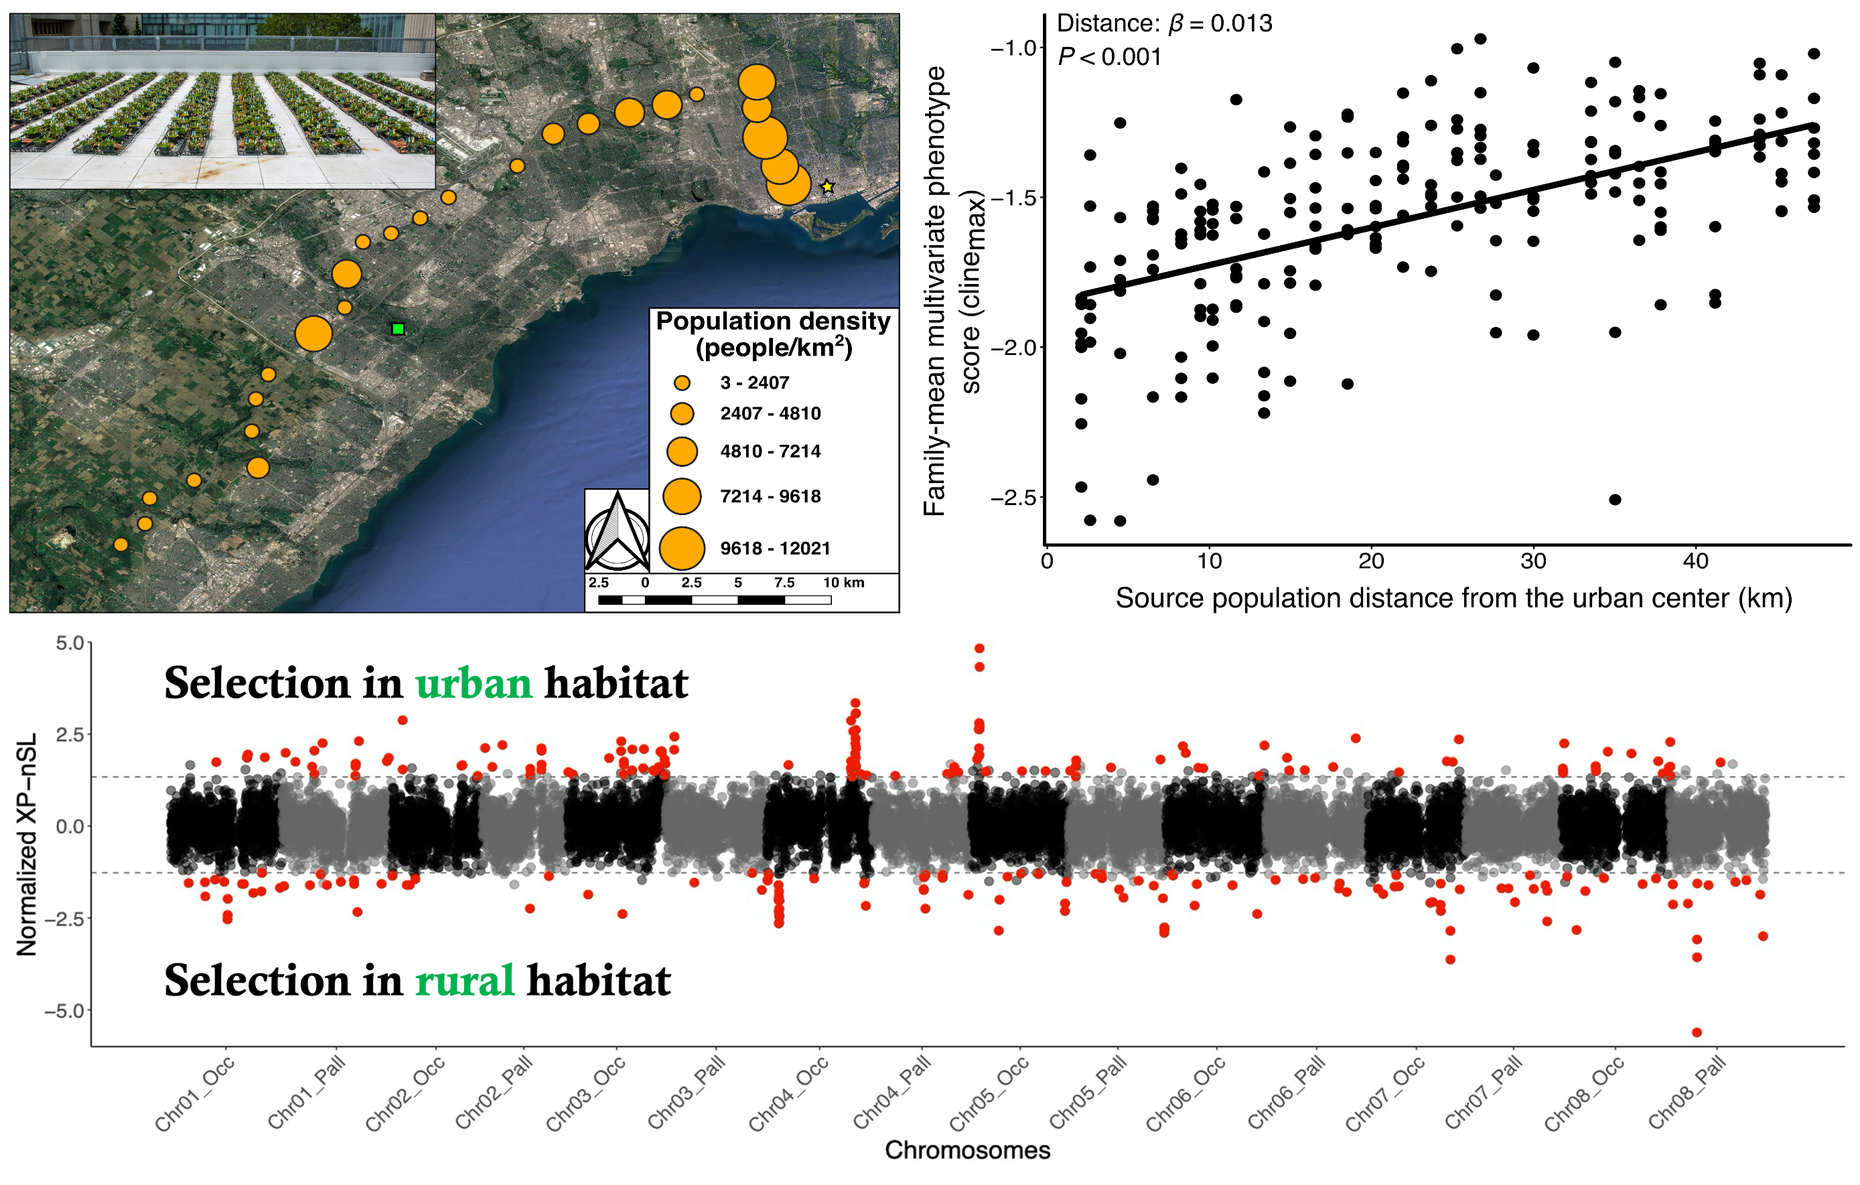
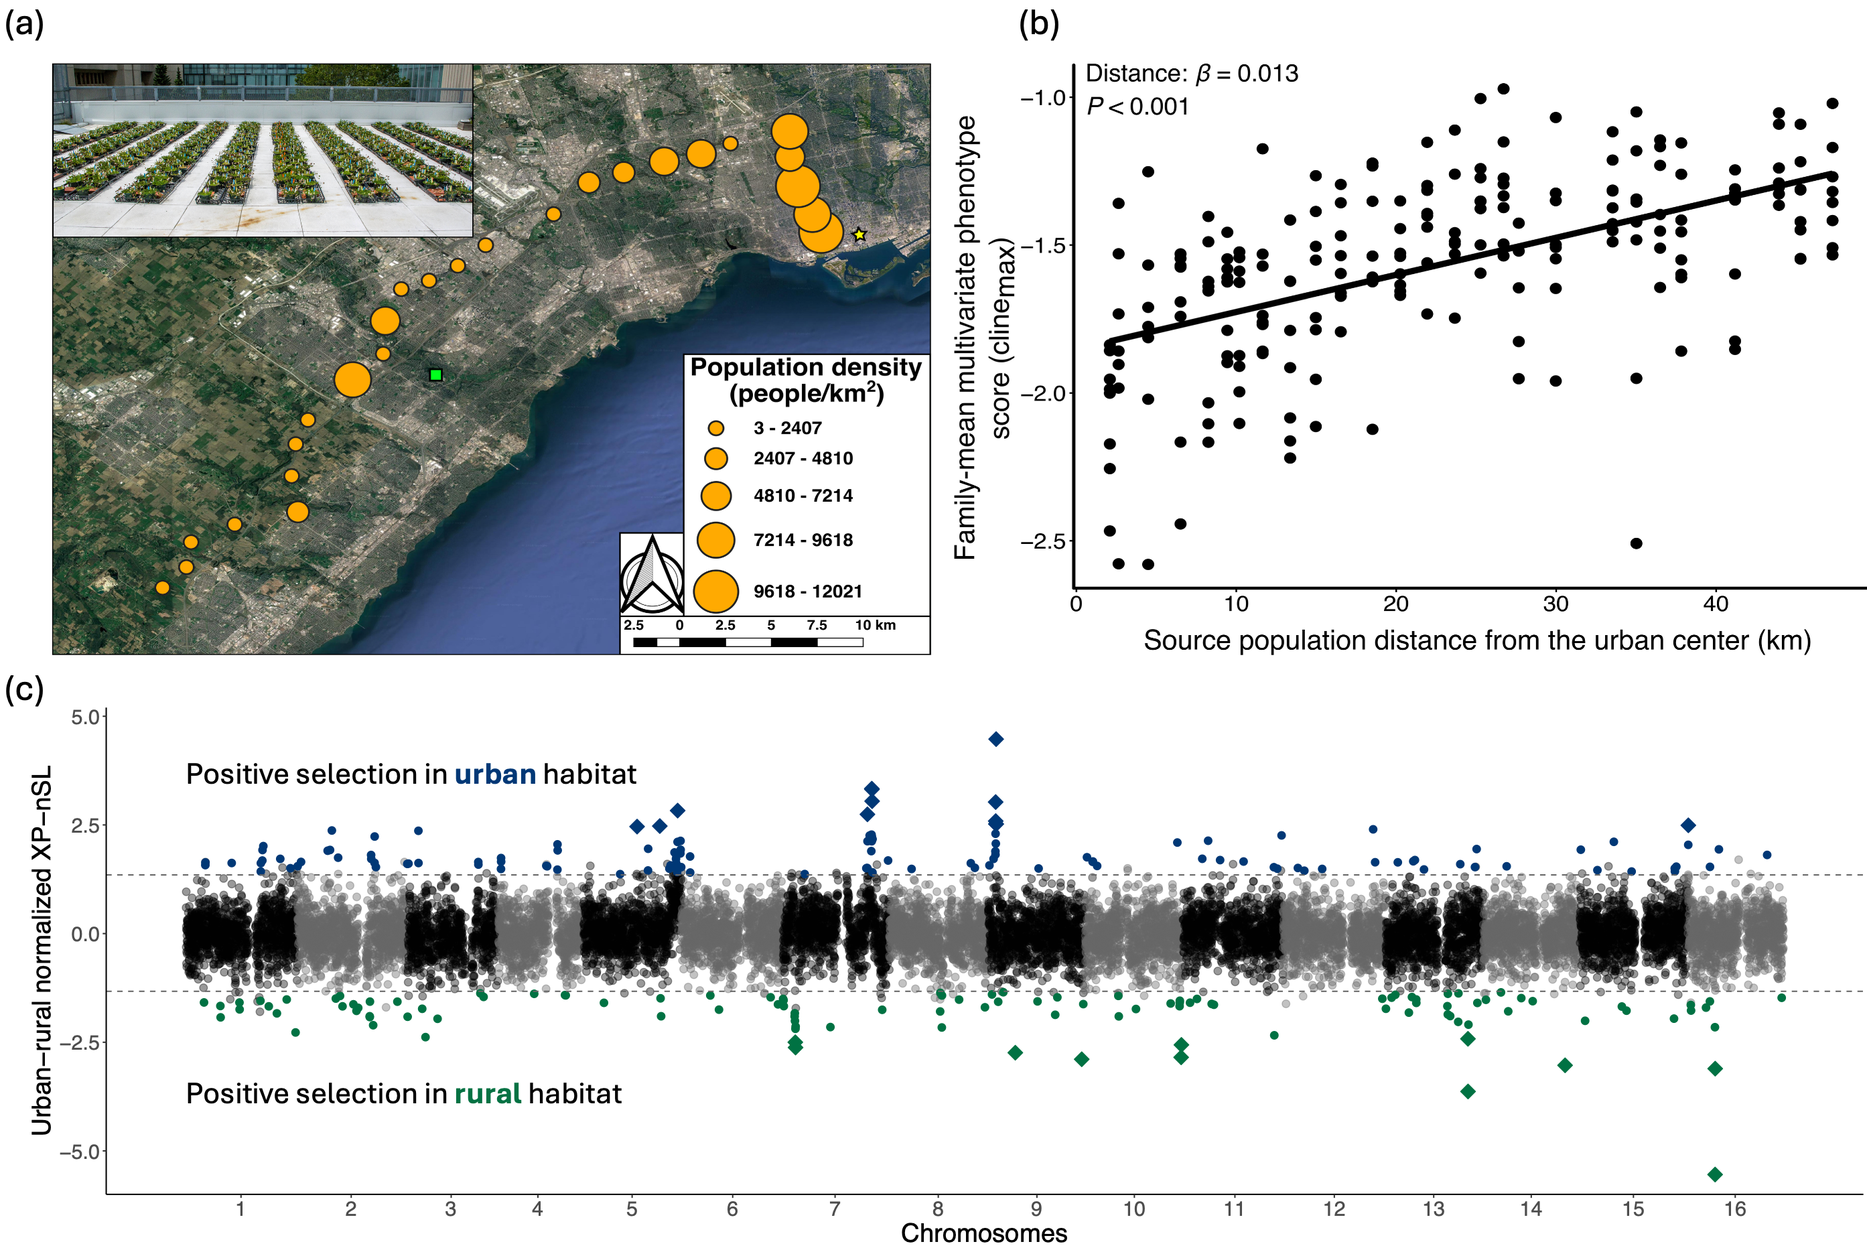
Initial updates to research page

diff --git a/_pages/research.md b/_pages/research.md
@@ -6,48 +6,157 @@ classes: wide
 toc: true
 ---
 
-## Evolution in urban environments
+# Theme 1: The genetic architecture of adaptation to contemporary environments 
 
-### Urban-rural cyanogenesis (HCN) clines
+## Urban-rural cyanogenesis (HCN) clines
 
 ![](../assets/images/glue_map.png)
 *Figure 1: Map of cities samples as part of the Global Urban Evolution Project. Cities with positive clines (HCN<sub>Urban</sub> < HCN<sub>Rural</sub>) are colored blue while cities with negative clines(HCN<sub>Urban</sub> < HCN<sub>Rural</sub>)*
 
-Approximately 55% of the world’s human population currently lives in urban environments, and this number continues to grow annually. Because cities are constructed to suit the needs of humans, urban environments around the world are predicted to be more like one another than to their own surrounding non-urban habitat, which [may drive parallel evolutionary responses to urbanization](https://www.dropbox.com/scl/fi/jixm0yrdlf57rkaosme6k/Santangelo-et-al.-2020-Urban-environments-as-a-framework-to-study-parallel-evolution.pdf?rlkey=0bwo5erp9bu1mjm5yd3f60nll&dl=0). In my PhD, I tested these predictions and leveraged large-scale, replicated urban environments to examine the extent of parallel evolution in the production of hydrogen cyanide (HCN)—an ecologically important antiherbivore defense that also affects tolerance to abiotic stressors (e.g., drought, frost)—in natural populations of white clover (_Trifolium repens_). I showed that urbanization drives repeated spatial clines in the frequency of HCN across urban-rural transects in [16 eastern North American cities](https://www.dropbox.com/scl/fi/v80cefwfhlc9ibv5e9xmh/Santangelo-et-al.-2020-Predicting-the-strength-of-urban-rural-clines-in-a-Mendelian-polymorphism-along-a-latitudinal-gradient.pdf?rlkey=6suh8rtbcm3f47c9d0e0398kx&dl=0). I later helped launch and lead the [GLobal Urban Evolution Project (GLUE)](https://www.globalurbanevolution.com/), a collaborative effort among 287 scientists from 160 countries around the world with the common goal of understanding the mechanisms underlying urban evolutionary change. [Our analyses showed](https://www.dropbox.com/scl/fi/jhoatblsbr16r6eh34u4t/Santangelo-et-al.-2022-Global-urban-environmental-change-drives-adaptation-in-white-clover.pdf?rlkey=gb6dgskpvc1sueoc3wmf50qtg&dl=0) that urban habitats around the world have converged to similar environmental features: cities are warmer, less vegetated, and contain more impervious surfaces than surrounding non- urban habitats. These convergent urban environments have driven urban-rural HCN clines in 47% of the 160 cities sampled (see Figure 1 above), and whole genome sequencing of 2,074 plants from 26 cities has confirmed that clines are adaptive. Indeed, variation in the strength of clines could be predicted by urban-rural changes in the strength of drought and herbivory, factors also known to influence HCN frequencies at continental scales.
+Humans are having a decisive impact on natural environments around the world,
+forcing species to move, adapt, or go extinct. One such form of environmental
+change is urbanization and approximately 55% of the world’s human population
+currently lives in cities, a figure that continues to grow annually. Because
+cities are constructed to suit the needs of humans, urban environments around
+the world are predicted to be more like one another than to their own
+surrounding non-urban habitat, which [may drive parallel evolutionary responses
+to
+urbanization](https://www.dropbox.com/scl/fi/jixm0yrdlf57rkaosme6k/Santangelo-et-al.-2020-Urban-environments-as-a-framework-to-study-parallel-evolution.pdf?rlkey=0bwo5erp9bu1mjm5yd3f60nll&dl=0).
+We have tested this prediction by leveraging large-scale, replicated urban
+environments to examine the extent of parallel evolution in the production of
+hydrogen cyanide (HCN)—an ecologically important antiherbivore defense that
+also affects tolerance to abiotic stressors (e.g., drought, frost)—in natural
+populations of white clover (_Trifolium repens_). We helped launch the [GLobal
+Urban Evolution Project (GLUE)](https://www.globalurbanevolution.com/), a
+collaborative effort among 287 scientists from 160 countries around the world
+with the common goal of understanding the mechanisms underlying urban
+evolutionary change. [Our analyses
+showed](https://www.dropbox.com/scl/fi/jhoatblsbr16r6eh34u4t/Santangelo-et-al.-2022-Global-urban-environmental-change-drives-adaptation-in-white-clover.pdf?rlkey=gb6dgskpvc1sueoc3wmf50qtg&dl=0)
+that urban habitats around the world have converged to similar environmental
+features: cities are warmer, less vegetated, and contain more impervious
+surfaces than surrounding non- urban habitats. These convergent urban
+environments have driven urban-rural HCN clines in 47% of the 160 cities
+sampled (see Figure 1 above), and whole genome sequencing of 2,074 plants from
+26 cities has confirmed that clines are adaptive. Indeed, variation in the
+strength of clines could be predicted by urban-rural changes in the strength of
+drought and herbivory, factors also known to influence HCN frequencies at
+continental scales.
 
+We generated a lot of data as part of this project, which numerous projects
+have leverage. For example, [Aude
+Caizergues](https://audecaizergues.github.io/) used the genomic data genomic
+data to explore the [demographic consequences of
+urbanization](https://onlinelibrary.wiley.com/doi/10.1111/mec.17311).
+Similarly, [Nic Kooyers](https://www.plantadaptation.com/), [Brandon
+Henrickson](https://louisiana.edu/directory/people/brandon-hendrickson), [Kay
+Hodgins](http://hodginslab.com/), and [Paul
+Battlay](https://scholar.google.com/citations?hl=en&user=QaufYW4AAAAJ) lead
+efforts to examine the consequences of white clover's invasion out of the
+Mediterranean to all inhabited continents, and some of the [loci underlying
+adaptation in its native and introduced
+ranges](https://www.nature.com/articles/s41559-025-02751-2).
 
-We generated a lot of data as part of this project, and numerous ongoing projects are leveraging this. For example, [Aude Caizergues](https://audecaizergues.github.io/) is leading a project using the genomic data to explore the [demographic consequences of urbanization](https://www.biorxiv.org/content/10.1101/2023.08.14.552623v1.abstract). Similarly, [Nic Kooyers](https://www.plantadaptation.com/), [Jonas Mendez-Reneau](https://scholar.google.com/citations?hl=en&user=eXl1yk0AAAAJ), [Kay Hodgins](http://hodginslab.com/), and [Paul Battlay](https://scholar.google.com/citations?hl=en&user=QaufYW4AAAAJ) are leading efforts to examine the demographic consequences of white clover's expansion out of the Mediterranean to all inhabited continents, and some of the loci underlying adaptation in its native and introduced ranges.
-
-### Quantitative trait evolution and genome-wide selection 
+## Quantitative trait evolution and genome-wide selection 
 
 ![](../assets/images/multi_cline_xpnsl.png)
 *Figure 2: Top left: Populations sampled and common garden experiment used for detected quantitative trait differentiation of white clover populations across an urban-rural transect in Toronto, Canada. Top right: Multivariate phenotypic cline among Toronto white clover population. Each point represents a plant's multivariate cline score, which combines standardized measurements of 14 phenotypic traits and their genetic correlations. Bottom: Cross-Population Number of Segregating Sites by Length (XP-nSL) scores for urban and rural plants in Toronto. This statistic identifies candidates of positive selection using genome-wide haplotype data.*
 
-Given the multifarious environmental changes associated with the development of cities, urbanization is likely to drive differentiation in many phenotypic traits. During my PhD, I collaborated with [Ruth Rivkin](https://ruthrivkin.github.io/) and [Ken Thompson](https://www.hybrid-ecology.com/) to perform a common-garden experiment that identified a multivariate phenotypic cline across the city of Toronto: [urban and rural populations were differentiated in numerous quantitative traits involved in plant growth and reproduction](https://www.dropbox.com/scl/fi/h63l5tsb2ca5rho8q4eni/Santangelo-et-al.-2020-Multivariate-phenotypic-divergence-along-an-urbanization-gradient.pdf?rlkey=kgb2ov6v6ohff3wgc4rdj9vfu&dl=0) (see Figure 2 above, top), which observational data suggested might be driven by variation in the underlying pollinator environment. Patterns of phenotypic differentiation appear mirrored across the genome, as ongoing work using 120 plants from Toronto sequenced to 13X coverage has identified signatures of selection in genes underlying growth, reproduction, and abiotic stress tolerance using plants from these same common-garden populations (see Figure 2 above, bottom). To examine whether these signatures of selection are shared across other cities, I am leveraging the genomic data collected as part of GLUE to identify parallel signatures of selective sweeps associated with urbanization.
+Given the multifarious environmental changes associated with the development of
+cities, urbanization is likely to drive differentiation in many phenotypic
+traits. In line with this prediction, a common-garden experiment identified a
+multivariate phenotypic cline across the city of Toronto: [urban and rural
+populations were differentiated in numerous quantitative traits involved in
+plant growth and
+reproduction](https://www.dropbox.com/scl/fi/h63l5tsb2ca5rho8q4eni/Santangelo-et-al.-2020-Multivariate-phenotypic-divergence-along-an-urbanization-gradient.pdf?rlkey=kgb2ov6v6ohff3wgc4rdj9vfu&dl=0)
+(see Figure 2 above, top), which observational data suggested might be driven
+by variation in the underlying pollinator environment. Patterns of phenotypic
+differentiation appear mirrored across the genome, as recent work using 120
+plants from these same populations has [identified signatures of selection in
+genes underlying growth, reproduction, and abiotic stress tolerance] (see
+Figure 2 above, bottom). 
 
-## Other topics
+## Ongoing projects and questions
 
-### Genome assembly and annotation
+We have many ongoing projects leveraging diverse techniques to better understand the traits and genes
+facilitating plant adaptation to rapidly changing environments. While existing work has largely been
+focused on cities, we are expanding our focus to other heavily human-modified landscapes, and to a 
+broader suite of traits. Here are some sample questions we're interested in tackling:
 
-![](../assets/images/circos.png){: .align-left width="50%"}
+1. What is the genetic architecture of resistance to biotic (e.g., herbivory)
+   and abiotic (e.g., drought, frost) stressors? Does resistance to one
+   stressor trade-off with resistance to others, or is there pleiotropy among
+   underlying loci that confers resistance to multiple stressors? How does this
+   affect adaptation of natural populations?
+2. What is the strength of selection acting on ecologically and agriculturally
+   important phenotypes? 
+3. How does planting of artificially-selected white clover cultivars (e.g., by
+   farmers, or in residential clover lawns) impact patterns of genetic
+   diversity and adaptation of naturalized populations across urban and rural
+   landscapes?
+4. Are the agents of selection that have driven past adaptation to the
+   environment still driving contemporary patterns selection and
+   phenotypic/allele frequency change?
 
-To facilitate many of the ongoing genomic analyses for some of the projects discussed above, it was necessary to improve on white clover's genomic resources. I was involved in a recent collaboration to generate a [chromosome-level, haplotype-resolved assembly for _T. repens_](https://www.dropbox.com/scl/fi/1poqinaevfnrhe74zhwpx/Santangelo-et-al.-2023-Haplotype-Resolved-Chromosome-Level-Assembly-of-White-Clover-Trifolium-repens-L.-Fabaceae.pdf?rlkey=ejl8k79e31pal06lmidb4qykm&dl=0). In addtion to a [haplotype 1](https://www.ncbi.nlm.nih.gov/bioproject/957817) and [haplotype 2](https://www.ncbi.nlm.nih.gov/bioproject/957816), we also generated a [functionally annotated, haploid mapping assembly](https://www.ncbi.nlm.nih.gov/datasets/genome/GCA_030408175.1/), the [annotation pipeline for which is publicly-available](https://github.com/James-S-Santangelo/dcg) and has been used on assemblies for other species with some success (though some modifications are necessary).
+# Theme 2: Genome assembly, annotation, and resource development
+
+Access to high quality molecular and genomic resources is essential to help drive investigations into the genetic
+basis of adaptation, particularly in non-model system where such resources have been historically lacking.
+
+![](../assets/images/circos.png){: .align-left width="35%"} To facilitate many
+of the ongoing genomic analyses for some of the projects discussed above, it
+was necessary to improve on white clover's genomic resources. In collaboration
+with other labs that use clover as a model system, we developed a
+[chromosome-level, haplotype-resolved assembly for _T.
+repens_](https://www.dropbox.com/scl/fi/1poqinaevfnrhe74zhwpx/Santangelo-et-al.-2023-Haplotype-Resolved-Chromosome-Level-Assembly-of-White-Clover-Trifolium-repens-L.-Fabaceae.pdf?rlkey=ejl8k79e31pal06lmidb4qykm&dl=0).
+In addtion to a [haplotype 1](https://www.ncbi.nlm.nih.gov/bioproject/957817)
+and [haplotype 2](https://www.ncbi.nlm.nih.gov/bioproject/957816), we also
+generated a [functionally annotated, haploid mapping
+assembly](https://www.ncbi.nlm.nih.gov/datasets/genome/GCA_030408175.1/), the
+[annotation pipeline for which is
+publicly-available](https://github.com/James-S-Santangelo/dcg) and has been
+used on assemblies for other species with some success (though some
+modifications are necessary). 
 <br>
+
+## Ongoing projects and questions
+
+In collaboration with [Yaseen Mottiar](https://mottiar.uottawa.ca/), we are developing and annotated,
+haplotype-resolved, chromosome-level assembly of Eastern Leatherwood (_Dirca palustris_) to drive
+future investigations into the unusual lignification process in this system. _D. palustris_ has half the 
+lignin of typical plant species and flexible stems as a results, which was used as rope by indigenous peoples
+and early settlers in Canada. Similarly, we are collaborating with [Carole Yauk's lab](https://caroleyauk.weebly.com/)
+to develop a reference genome of the North American Herring Gull (_Larus smithsonianus_), which we will leverage
+to understand how changes in pollution levels in Hamilton Harbour—a heavily contaminated industrial waterway in southern Ontario—have impacted somatic and germline mutation rate and spectra.
+
+All of the projects described so far have used a single reference genome.
+However, this can introduce biases in analyses, particularly in complex plant
+genomes like white clover that are loaded with repeats and structural
+rearrangements. A major focus of the lab going forward will be to add to the
+growing number of chromosome-level assemblies in white clover, which will open
+the door to pangenomic analyses to help reduce reference bias and drive
+investigations into the structural complexities of plant genomes. 
 
 ### Neutral clines in traits with non-additive genetic architectures 
 
 ![](../assets/images/sims.png){: .align-left width="50%"}
 
-HCN exhibits duplicate-recessive epistasis (or complimentary epistasis), whereby plants require a functional allele at each of two interacting loci to produce HCN. Recessivity at either locus (or both) results in the inability to produce HCN due to the absence of one of the precursors. Because of this non-additive genetic architecture, population of _T. repens_ may be particularly susceptible to decreases in HCN frequencies via drift alone, since the only way for HCN frequencies to drift upwards would be for the frequency of the functional alleles at both loci to drift upwards. During my PhD, I simulated the evolution of clines in HCN under gradients with varying strength of genetic drift, selection, and levels of gene flow to examine how these mechanisms interact in the evolution of clines in traits with non-additive genetic architectures. We found that [drift on it's own is sufficient to drive the deterministic loss of HCN in strongly-drifting populations](https://www.dropbox.com/scl/fi/e43ppzkpwp043fl5r9h9s/Santangelo-Johnson-Ness-2018-Modern-spandrels-the-roles-of-genetic-drift-gene-flow-and-natural-selection-in-the-evolution-of-para.pdf?rlkey=897yvckmsumwpbt0ncloj0nvz&dl=0). This could explain the frequently observed loss of HCN in urban populations, which experience stronger drift in many systems. However, the strength of observed phenotypic clines are far stronger than those generated via drift alone, and genomic analyses have ruled out drift as a likely explanation driving these clines.
-<br>
+HCN exhibits duplicate-recessive epistasis (or complimentary epistasis),
+whereby plants require a functional allele at each of two interacting loci to
+produce HCN. Recessivity at either locus (or both) results in the inability to
+produce HCN due to the absence of one of the precursors. Because of this
+non-additive genetic architecture, population of _T. repens_ may be
+particularly susceptible to decreases in HCN frequencies via drift alone, since
+the only way for HCN frequencies to drift upwards would be for the frequency of
+the functional alleles at both loci to drift upwards. During my PhD, I
+simulated the evolution of clines in HCN under gradients with varying strength
+of genetic drift, selection, and levels of gene flow to examine how these
+mechanisms interact in the evolution of clines in traits with non-additive
+genetic architectures. We found that [drift on it's own is sufficient to drive
+the deterministic loss of HCN in strongly-drifting
+populations](https://www.dropbox.com/scl/fi/e43ppzkpwp043fl5r9h9s/Santangelo-Johnson-Ness-2018-Modern-spandrels-the-roles-of-genetic-drift-gene-flow-and-natural-selection-in-the-evolution-of-para.pdf?rlkey=897yvckmsumwpbt0ncloj0nvz&dl=0).
+This could explain the frequently observed loss of HCN in urban populations,
+which experience stronger drift in many systems. However, the strength of
+observed phenotypic clines are far stronger than those generated via drift
+alone, and genomic analyses have ruled out drift as a likely explanation
+driving these clines. <br>
 
-### Herbivore and pollinator-mediated selection
-
-![](../assets/images/hps_exp.jpg){: .align-left width="50%"}
-
-Herbivores and pollinators are two of the most important agents of selection on plant reproductive traits. Given that both selective agents can be impacted by the expression of plant defences, defences may alter the strength of herbivore- and pollinator-mediated selection on plant reproductive traits, but the hypothesis had not been experimentally tested. At the start of grad school, I tested this hypothesis by performing a field experiment with 800 clover plants where I experimentally manipulated plant chemical defence, herbivory, and pollination quantified the strength of directional selection of numerous reproductive traits. Contrary to the view that pollinators are the most important agents of selection on reproductive traits, [our data show that selection on reproductive traits is driven primarily by variation in herbivory and plant defences in this system](https://www.dropbox.com/scl/fi/x2jvdiqqks5praop3d2zy/Santangelo-Thompson-Johnson-2018-Herbivores-and-plant-defenses-affect-selection-on-plant-reproductive-traits-more-strongly-than-po.pdf?rlkey=t80wx6mmjk94kpgl92hd0q08t&dl=0).
-<br>
-
-### Fungal endophytes
-
-![](../assets/images/endophytes.jpg){: .align-left width="50%"}My undergraduate work examined how the frequency of systemic fungal endophyte—vertically-transmitted fungi that live between plant cells and defend the plant against herbivores in exchange for housing and sugars—changed following [experimental removal of rabbit herbivores](https://www.dropbox.com/scl/fi/e8fxumrgl54z8p58hid63/Santangelo-Turley-Johnson-2015-Fungal-endophytes-of-iFestuca-rubrai-increase-in-frequency-following-long-term-exclusion-of-rabbits.pdf?rlkey=6b60ahicxxelr2x8pnlr1mzqo&dl=0). I additionally explored the ecological consequences of non-systemic fungal endophytes—many of which are horizontally-transmitted—in [subarctic _Festuca rubra_ populations](https://www.dropbox.com/scl/fi/jo23h0fj3dtosy4cst27f/Santangelo-Kotanen-2016-Nonsystemic-fungal-endophytes-increase-survival-but-reduce-tolerance-to-simulated-herbivory-in-subarctic-iF.pdf?rlkey=tcdpryicqy6fy68zgjng3vugx&dl=0).
